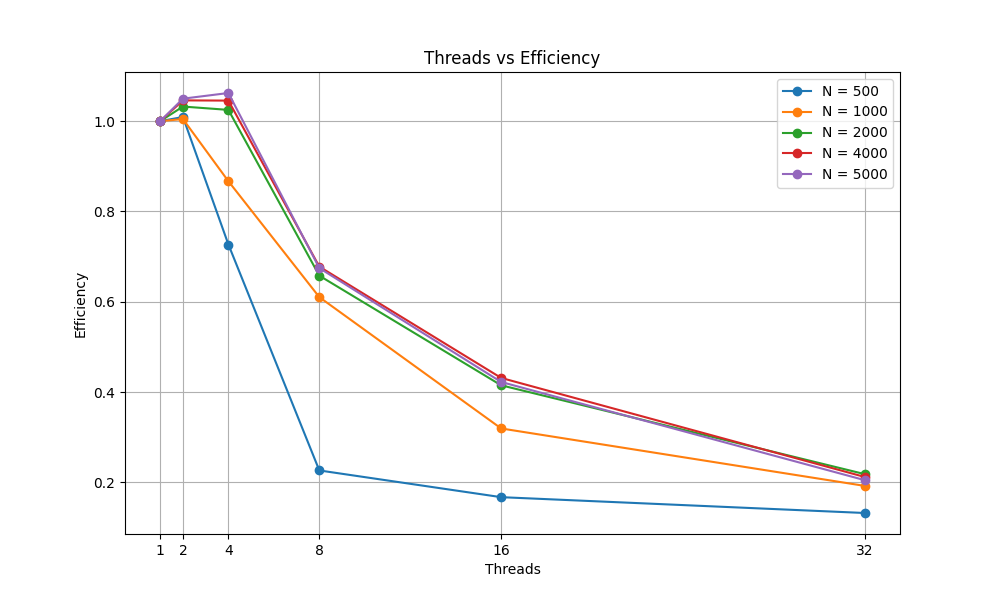
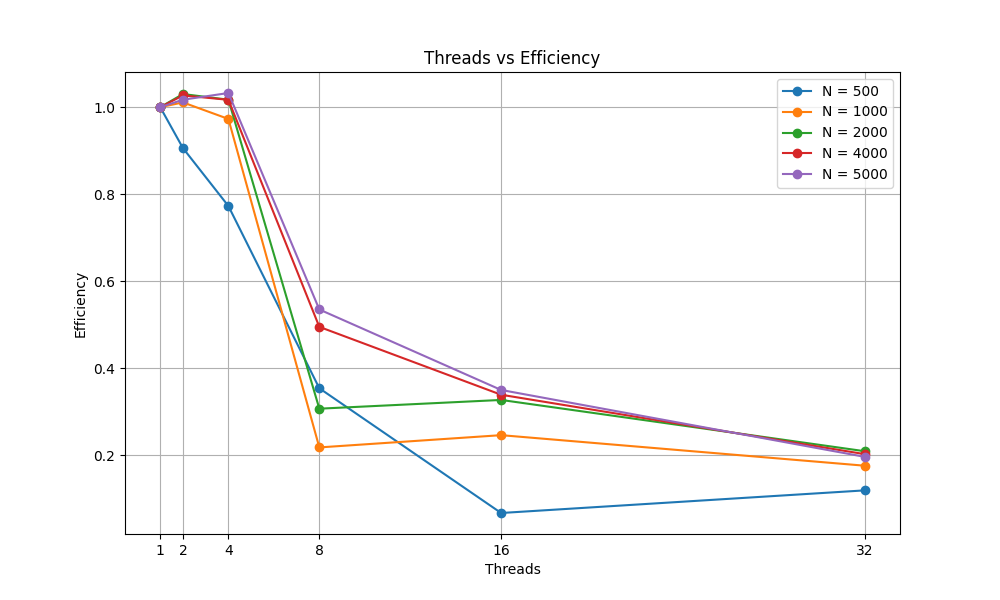
Updated with computational costs

diff --git a/times.py b/times.py
@@ -13,13 +13,12 @@ def percentage_bar(current, total, N, bar_length=30,):
     percent = (current) / total
     filled_length = int(bar_length * percent)
     bar = f"{GREEN}{'█' * filled_length}{RED}{' ' * (bar_length - filled_length)}{RESET}"
-    print(f'\r|{bar}| {percent*100:.01f}% Completed  N = {N}', end='')
+    print(f'\r|{bar}| {percent*100:.01f}% Completed  N = {N}', end='', flush=True)
 
 G = 0.001
 DT = 0.001
 N_list = [500, 1000, 2000, 4000, 5000]
 threads_list = [1,2,4,8,16,32]
-repeat = 100
 
 pos_min, pos_max = -50, 50
 vel_min, vel_max = -1, 1
@@ -30,6 +29,7 @@ times_thread = []
 times = []
 speedup = []
 efficiency = []
+computational_cost = []
 
 count = 0
 for N in N_list:
@@ -39,9 +39,11 @@ for N in N_list:
     vel = np.random.uniform(vel_min, vel_max, (N, 3))
     mass = np.random.uniform(mass_min, mass_max, N)
 
-    bodies.set_all(pos[:,0], pos[:,1], pos[:,2], vel[:,0], vel[:,1], vel[:,2], mass)
+    #bodies.set_all(pos[:,0], pos[:,1], pos[:,2], vel[:,0], vel[:,1], vel[:,2], mass)
 
     for threads in threads_list:
+        bodies.set_all(pos[:,0], pos[:,1], pos[:,2], vel[:,0], vel[:,1], vel[:,2], mass)
+
         duration = nbody.benchmark_threaded(bodies, DT, G, threads, 100)
         count += 1
 
@@ -66,11 +68,14 @@ for i in range(len(times_N)):
         speedup.append(true_time[N_val]/times_val)
         efficiency.append((true_time[N_val]/times_val)/threads_val)
 
+    computational_cost.append(times_val/(N_val**2))
+
 df = pd.DataFrame({
     "N": times_N,
     "threads": times_thread,
     "time_elapsed": times,
     "speedup": speedup,
-    "efficiency": efficiency
+    "efficiency": efficiency,
+    "computational_cost":computational_cost
 })
 df.to_csv("times.csv", index=False)

diff --git a/times_plotting.py b/times_plotting.py
@@ -3,6 +3,7 @@ import pandas as pd
 import matplotlib.pyplot as plt
 
 df = pd.read_csv("times.csv")
+file = "Thread_Metrics"
 
 #Threads vs Speedup Plot
 plt.figure(figsize=(10,6))
@@ -17,7 +18,7 @@ plt.ylabel("Speedup")
 plt.title("Threads vs Speedup")
 plt.grid(True)
 plt.legend()
-plt.savefig("Thread_Metrics/Threads_vs_Speedup_Plot.png")
+plt.savefig(f"{file}/Threads_vs_Speedup_Plot.png")
 
 #Threads vs Efficiency
 plt.figure(figsize=(10,6))
@@ -32,7 +33,7 @@ plt.ylabel("Efficiency")
 plt.title("Threads vs Efficiency")
 plt.grid(True)
 plt.legend()
-plt.savefig("Thread_Metrics/Threads_vs_Efficiency_Plot.png")
+plt.savefig(f"{file}/Threads_vs_Efficiency_Plot.png")
 
 #Threads vs Time
 plt.figure(figsize=(10,6))
@@ -47,4 +48,19 @@ plt.ylabel("Time")
 plt.title("Threads vs Time")
 plt.grid(True)
 plt.legend()
-plt.savefig("Thread_Metrics/Threads_vs_Time_Plot.png")
+plt.savefig(f"{file}/Threads_vs_Time_Plot.png")
+
+#Computational Cost
+plt.figure(figsize=(10,6))
+for a in sorted(df['N'].unique()):
+    x = df[df['N'] == a]['threads']
+    y = df[df['N'] == a]['computational_cost']
+    plt.plot(x, y, marker='o', label=f"N = {a}")
+
+plt.xticks([1, 2, 4, 8, 16, 32])
+plt.xlabel("Threads")
+plt.ylabel("Computational Cost")
+plt.title("Computational Cost by N")
+plt.grid(True)
+plt.legend()
+plt.savefig(f"{file}/Computational_Cost.png")

diff --git a/nbody.cpp b/nbody.cpp
@@ -158,7 +158,7 @@ void compute_forces_omp(BodiesContainer& container, double dt, double G, int num
 
     #pragma omp parallel num_threads(number_threads) 
     {
-        #pragma omp for schedule(dynamic)
+        #pragma omp for schedule(static)
         for (int i = 0; i < n; ++i) { // Iterate through each body
             double ax = 0.0, ay = 0.0, az = 0.0; // Stores accel temporarily
 
